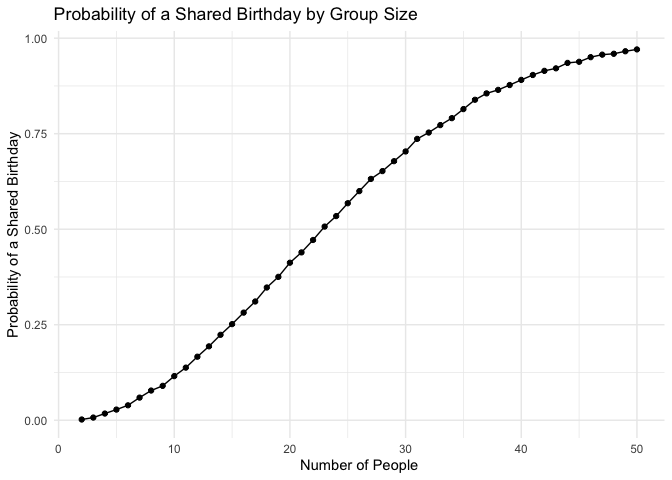
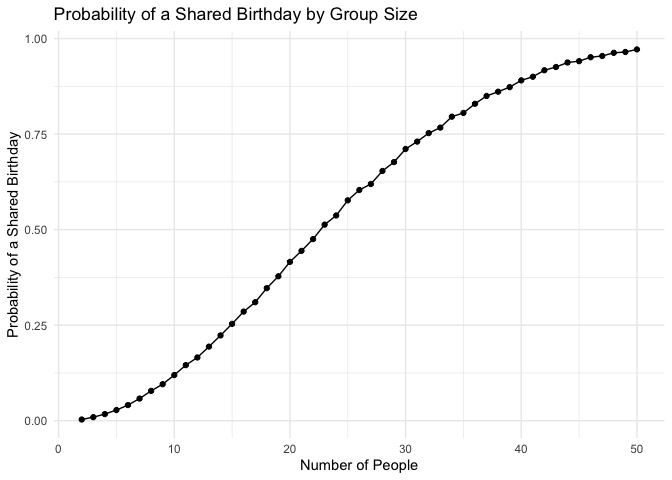
problem 3 done

diff --git a/p8105_hw5_yj2931.md b/p8105_hw5_yj2931.md
@@ -129,3 +129,190 @@ experimental group generally shows an increasing trend in observations
 over time, while the control group remains relatively stable with more
 fluctuation around lower values. The difference between the two groups
 becomes more noticeable in the later weeks.
+
+## Problem 3
+
+Write a function for mu, n and sd are fixed
+
+``` r
+sim_data = function(mu) {
+  
+  rnorm(n = 30, mean = mu, sd = 5)
+  
+}
+```
+
+Generate 5000 datasets from the model
+
+``` r
+sim_results =
+  tibble(
+    iter = 1:5000
+  ) |>
+  mutate(
+    data = map(iter, ~ sim_data(0))
+  )
+```
+
+Use `t.test()` on each simulated dataset, clean the output with
+`broom::tidy()`, then keep the estimate and p-value
+
+Make it as a function
+
+``` r
+sim_mu = function(mu) {
+  
+  sim_results =
+    tibble(iter = 1:5000) |>
+    mutate(
+      data = map(
+        iter,
+        ~ rnorm(n = 30, mean = mu, sd = 5)
+      ),
+      test_results = map(
+        data,
+        ~ t.test(.x, mu = 0) |>
+          broom::tidy()
+      )
+    ) |>
+    unnest(test_results) |>
+    select(iter, estimate, p.value)
+  
+  return(sim_results)
+}
+```
+
+Generate from mu = 0 to mu = 6
+
+``` r
+sim_results_mu0 = sim_mu(0)
+```
+
+Repeat the above for 𝜇={1,2,3,4,5,6}
+
+``` r
+sim_results_mu1 = sim_mu(1)
+sim_results_mu2 = sim_mu(2)
+sim_results_mu3 = sim_mu(3)
+sim_results_mu4 = sim_mu(4)
+sim_results_mu5 = sim_mu(5)
+sim_results_mu6 = sim_mu(6)
+```
+
+\*I decided to run them seperately since the datasets were relatively
+large
+
+Put them all together as a dataset
+
+``` r
+sim_results_all =
+  bind_rows(
+    "0" = sim_results_mu0,
+    "1" = sim_results_mu1,
+    "2" = sim_results_mu2,
+    "3" = sim_results_mu3,
+    "4" = sim_results_mu4,
+    "5" = sim_results_mu5,
+    "6" = sim_results_mu6,
+    .id = "mu"
+  ) |>
+  mutate(
+    mu = as.numeric(mu)
+  )
+```
+
+Select those with a p-value \< 0.05
+
+``` r
+power_df =
+  sim_results_all |>
+  group_by(mu) |>
+  summarize(
+    power = mean(p.value < 0.05)
+  )
+```
+
+Make the plot. Some p-values are close to 1, so I decided to print them
+out on the plot.
+
+``` r
+power_df |>
+  ggplot(aes(x = mu, y = power)) +
+  geom_point() +
+  geom_line() +
+  geom_text(
+    aes(label = round(power, 3)),
+    vjust = -0.7
+  ) +
+  labs(
+    title = "Power of the One-Sample t-Test",
+    x = "True Value of Mu",
+    y = "Power / Proportion of times H0 was rejected"
+  ) +
+  ylim(0, 1.05) +
+  theme_minimal()
+```
+
+![](p8105_hw5_yj2931_files/figure-gfm/unnamed-chunk-16-1.png)<!-- -->
+
+As the true value of μ increases, the power of the test also increases.
+When μ is close to 0, the effect size is small and the test is less
+likely to reject the null hypothesis. As μ moves farther from 0, the
+effect size becomes larger, making it easier to detect a difference and
+increasing the power.
+
+To make the second plot, I first summarized the mean estimate and
+rejected mean estimate
+
+``` r
+estimate_df =
+  sim_results_all |>
+  group_by(mu) |>
+  summarize(
+    mean_estimate = mean(estimate),
+    mean_estimate_rejected = mean(estimate[p.value < 0.05])
+  )
+```
+
+Then plot the average estimate across all simulations:
+
+``` r
+estimate_df |>
+  ggplot(aes(x = mu, y = mean_estimate)) +
+  geom_point() +
+  geom_line() +
+  geom_text(
+    aes(label = round(mean_estimate, 2)),
+    vjust = -0.7
+  ) +
+  labs(
+    title = "Average Estimated Mu Across All Simulations",
+    x = "True Value of Mu",
+    y = "Average Estimated Mu"
+  ) +
+  theme_minimal()
+```
+
+![](p8105_hw5_yj2931_files/figure-gfm/unnamed-chunk-18-1.png)<!-- -->
+
+And separately plot the average estimate only when the null was
+rejected:
+
+``` r
+estimate_df |>
+  ggplot(aes(x = mu, y = mean_estimate_rejected)) +
+  geom_point() +
+  geom_line() +
+  geom_text(
+    aes(label = round(mean_estimate_rejected, 2)),
+    vjust = -0.7
+  ) +
+  labs(
+    title = "Average Estimated Mu When the Null Was Rejected",
+    x = "True Value of Mu",
+    y = "Average Estimated Mu"
+  ) +
+  theme_minimal()
+```
+
+![](p8105_hw5_yj2931_files/figure-gfm/unnamed-chunk-19-1.png)<!-- -->
